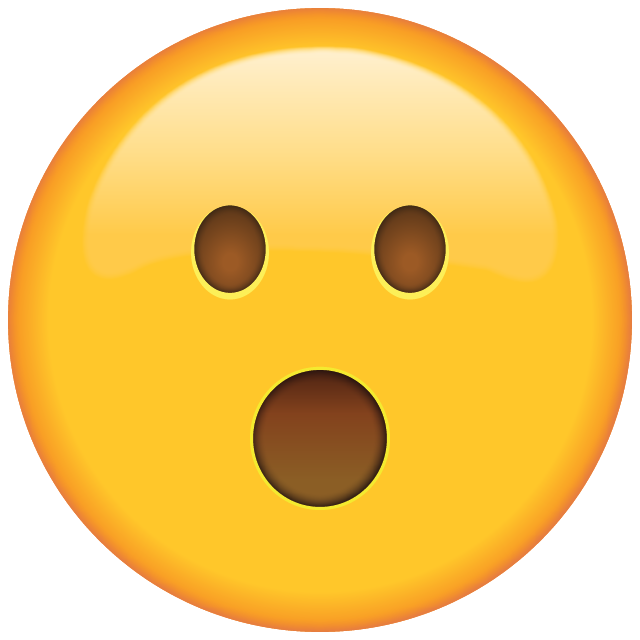
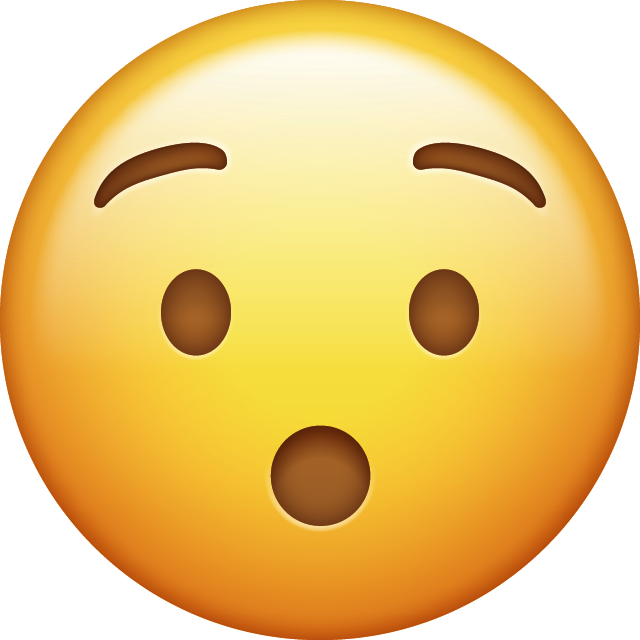
Emoción: Sorpresa

diff --git a/public/js/controllers/woo.js b/public/js/controllers/woo.js
@@ -30,7 +30,9 @@ eva.controller('woo', ['$scope', '$http', function ($scope, $http) {
         { type: 'emotion', emotion: 'anger', level: 2, img: '/images/ira2.png', name: `${emotion('ANGER')} 2`, speed: 2.0 },
         { type: 'emotion', emotion: 'joy', level: 0, img: '/images/feliz.png', name: emotion('JOY'), speed: 2.0 },
         { type: 'emotion', emotion: 'joy', level: 1, img: '/images/feliz1.png', name: `${emotion('JOY')} 1`, speed: 2.0 },
-        { type: 'emotion', emotion: 'joy', level: 2, img: '/images/feliz2.png', name: `${emotion('JOY')} 2`, speed: 2.0 }
+        { type: 'emotion', emotion: 'joy', level: 2, img: '/images/feliz2.png', name: `${emotion('JOY')} 2`, speed: 2.0 },
+        { type: 'emotion', emotion: 'surprise', level: 0, img: '/images/sorpresa.png', name: emotion('SURPRISE'), speed: 2.0 },
+        { type: 'emotion', emotion: 'surprise', level: 1, img: '/images/sorpresa.png', name: `${emotion('SURPRISE')} 1`, speed: 2.0 }
     ];
 
     $scope.list = function () {

diff --git a/public/js/i18n/lang-pr.js b/public/js/i18n/lang-pr.js
@@ -112,7 +112,8 @@ const pr = {
             JOY: "Surpresa",
             SURPRISE: "Surprise",
             SAD: "Tristeza",
-            ANGER: "Raiva"
+            ANGER: "Raiva",
+            SURPRISE: "Surpresa"
         },
         LEVEL: "Nível",
         ONLY_EYES: "Somente olhos",

diff --git a/public/js/i18n/lang-es.js b/public/js/i18n/lang-es.js
@@ -112,7 +112,8 @@ const es = {
             JOY: "Alegría",
             SURPRISE: "Sorpresa",
             SAD: "Tristeza",
-            ANGER: "Ira"
+            ANGER: "Ira",
+            SURPRISE: "Sorpresa"
         },
         LEVEL: "Nivel",
         ONLY_EYES: "Solo Ojos",

diff --git a/public/js/i18n/lang-en.js b/public/js/i18n/lang-en.js
@@ -112,7 +112,8 @@ const en = {
             JOY: "Joy",
             SURPRISE: "Surprise",
             SAD: "Sadness",
-            ANGER: "Anger"
+            ANGER: "Anger",
+            SURPRISE: "Surprise"
         },
         LEVEL: "Level",
         ONLY_EYES: "Only Eyes",
